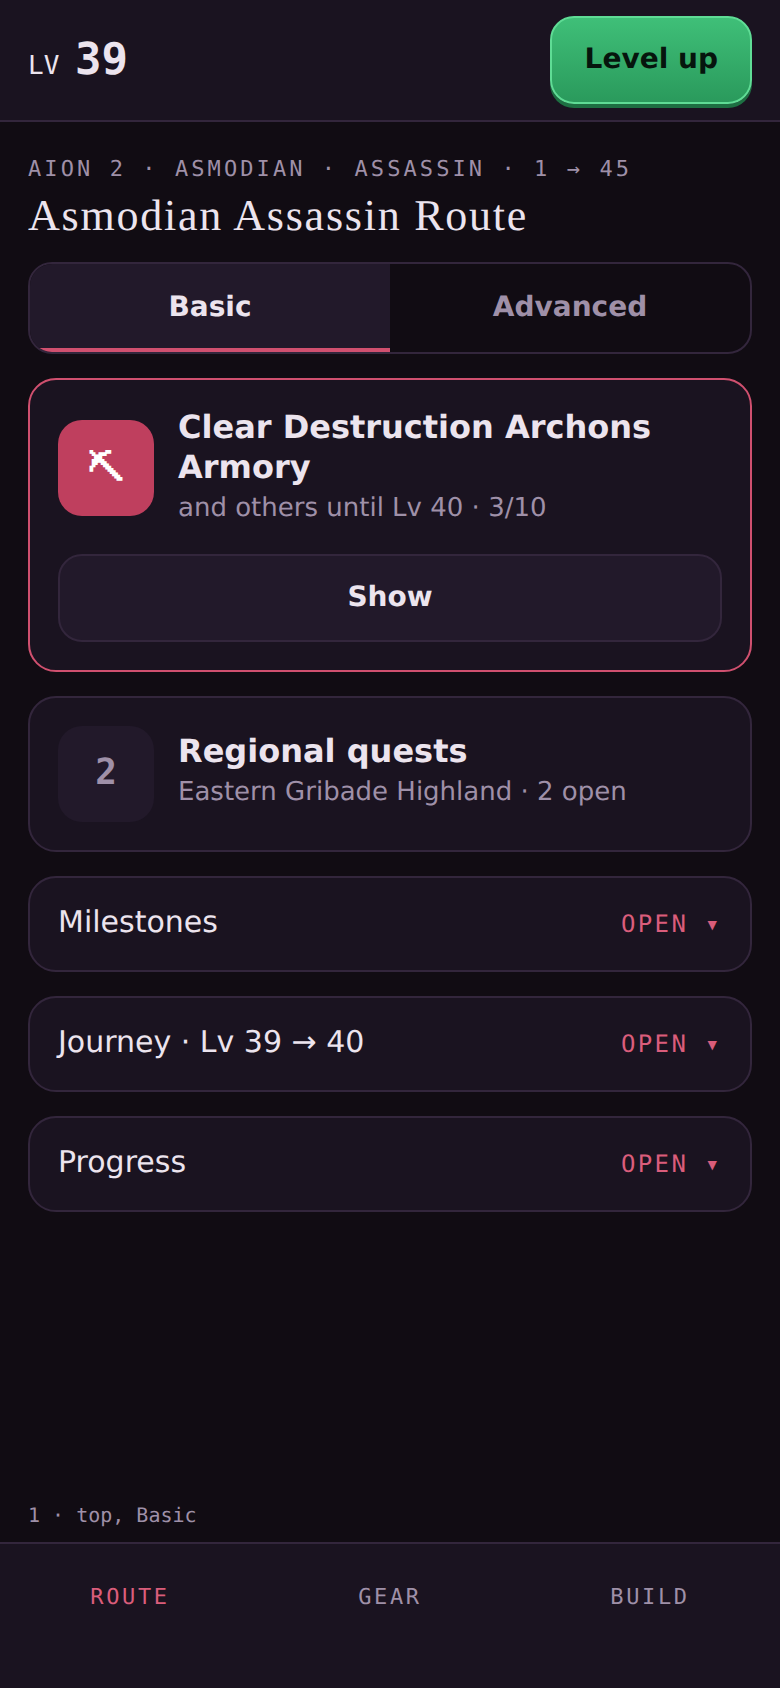
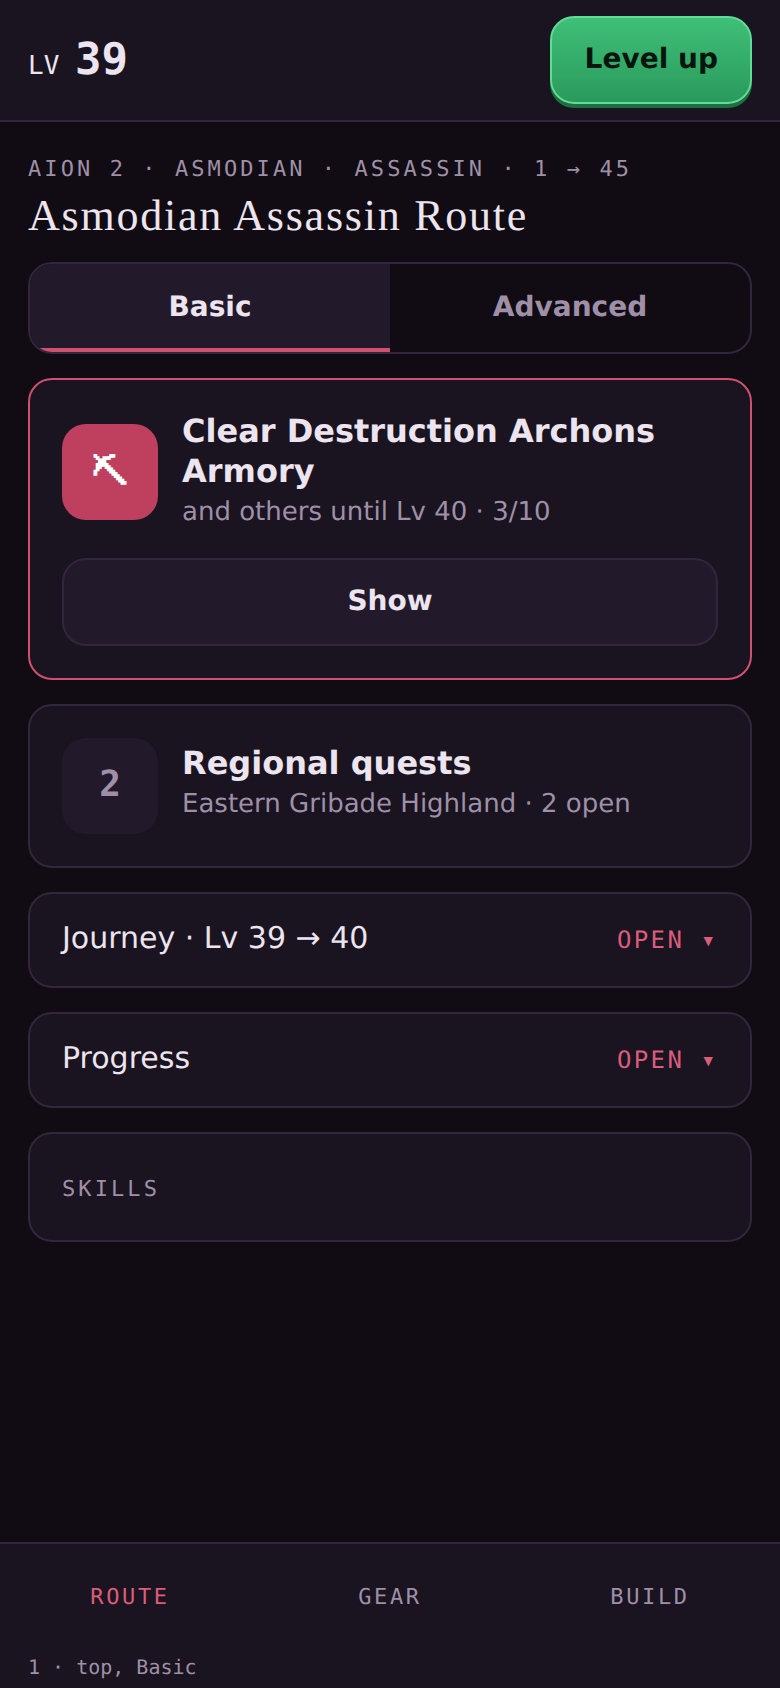
docs: phone layout plan, Milestones stays after gear cards, Route rules Advanced only, app card spacing in mockup

diff --git a/docs/design/mockups/phone-layout.html b/docs/design/mockups/phone-layout.html
@@ -23,7 +23,7 @@ h1 { font: 400 22px var(--display); margin: 0; letter-spacing: .04em; }
 .seg { display: grid; grid-template-columns: 1fr 1fr; border: 1px solid var(--line); border-radius: 12px; overflow: hidden; margin: 10px 0; }
 .seg .btn { border: 0; border-radius: 0; background: none; color: var(--muted); }
 .seg .on { background: var(--panel-2); color: var(--fg); box-shadow: inset 0 -2px var(--accent); }
-.card { background: var(--panel); border: 1px solid var(--line); border-radius: 14px; margin: 12px 14px; padding: 14px; }
+.card { background: var(--panel); border: 1px solid var(--line); border-radius: 12px; margin: 12px 14px; padding: 16px; } /* app.css:63 values; same in every frame */
 .card.first { border-color: var(--accent); }
 .row { display: grid; grid-template-columns: 48px minmax(0,1fr); gap: 12px; align-items: center; }
 .num { width: 48px; height: 48px; border-radius: 12px; background: var(--accent-fill); display: grid; place-items: center; color: #fff; font: 600 18px var(--mono); }
@@ -31,7 +31,7 @@ h1 { font: 400 22px var(--display); margin: 0; letter-spacing: .04em; }
 .card p { margin: 2px 0 0; color: var(--muted); font-size: 13px; }
 .actions { display: flex; gap: 8px; margin-top: 12px; }
 .actions .btn { flex: 1; }
-.fold { display: flex; justify-content: space-between; align-items: center; min-height: 48px; padding: 0 14px; } /* whole summary row is the hit area */
+.fold { display: flex; justify-content: space-between; align-items: center; min-height: 48px; padding: 0 16px; } /* whole summary row is the hit area */
 .more { color: var(--accent-text); font: 500 12px var(--mono); letter-spacing: .1em; text-transform: uppercase; }
 .tabs { position: absolute; left: 0; right: 0; bottom: 0; background: var(--panel); border-top: 1px solid var(--line); display: grid; grid-template-columns: repeat(3, 1fr); padding-bottom: 20px; /* env(safe-area-inset-bottom) */ }
 .tabs span { min-height: 52px; display: grid; place-items: center; font: 500 11px var(--mono); letter-spacing: .12em; text-transform: uppercase; color: var(--muted); }
@@ -40,7 +40,7 @@ h1 { font: 400 22px var(--display); margin: 0; letter-spacing: .04em; }
 .scrim { position: absolute; left: 0; right: 0; bottom: 0; top: 61px; background: #000a; z-index: 2; } /* starts below the bar: Level up stays visible and tappable */
 .grab { width: 40px; height: 5px; border-radius: 3px; background: var(--line); margin: 4px auto 10px; }
 .prio { display: grid; grid-template-columns: 1fr auto; min-height: 48px; align-items: center; border-bottom: 1px solid var(--line); }
-.lbl { position: absolute; bottom: 80px; left: 14px; z-index: 5; font: 10px var(--mono); color: var(--muted); }
+.lbl { position: absolute; bottom: 4px; left: 14px; z-index: 5; font: 10px var(--mono); color: var(--muted); }
 </style></head><body>
 
 <!-- 1. Top of the page: sticky level bar, 44 px mode switch, Next up first -->
@@ -51,21 +51,21 @@ h1 { font: 400 22px var(--display); margin: 0; letter-spacing: .04em; }
   <div class="card first"><div class="row"><span class="num">⛏</span><div><h3>Clear Destruction Archons Armory</h3><p>and others until Lv 40 · 3/10</p></div></div>
     <div class="actions"><span class="btn">Show</span></div></div>
   <div class="card"><div class="row"><span class="num" style="background:var(--panel-2);color:var(--muted)">2</span><div><h3>Regional quests</h3><p>Eastern Gribade Highland · 2 open</p></div></div></div>
-  <div class="card fold" style="margin-top:12px"><span>Milestones</span><span class="more">Open ▾</span></div>
   <div class="card fold"><span>Journey · Lv 39 → 40</span><span class="more">Open ▾</span></div>
   <div class="card fold"><span>Progress</span><span class="more">Open ▾</span></div>
+  <div class="card"><span class="mono">Skills</span></div>
   <div class="tabs"><span class="on">Route</span><span>Gear</span><span>Build</span></div></div>
 
 <!-- 2. Further down: gear cards as uniform folds, 44+ px rows -->
 <div class="ph" id="p2"><div class="lbl">2 · lower, Basic</div>
   <div class="bar"><span class="lv">LV <b>39</b></span><button class="btn lvup">Level up</button></div>
-  <div class="card" style="margin:8px 14px;padding:10px 14px"><span class="mono">Skills</span><div class="row" style="margin-top:6px"><span class="num">Q</span><div><h3>Skill name → N</h3><p>Spend 1 point</p></div></div><div class="actions" style="margin-top:8px"><span class="btn primary">Mark spent</span></div></div>
-  <div class="card" style="margin:8px 14px;padding:10px 14px"><span class="mono">Daevanion</span><div class="row" style="margin-top:6px"><span class="num">D</span><div><h3>Next node · n DP</h3><p>Have n</p></div></div><div class="actions" style="margin-top:8px"><span class="btn">−</span><span class="btn" style="flex:2">n</span><span class="btn">+</span></div></div>
-  <div class="card" style="margin:8px 14px;padding:10px 14px"><span class="mono">Stigmas</span><div class="row" style="margin-top:6px"><span class="num">S</span><div><h3>Equip stigma name</h3><p>Shards n</p></div></div></div>
-  <div class="card fold" style="margin:8px 14px"><span>Dungeons &amp; Strongholds</span><span class="more">Open ▾</span></div>
-  <div class="card fold" style="margin:8px 14px"><span>Route rules</span><span class="more">Open ▾</span></div>
-  <div class="card fold" style="margin:8px 14px"><span>Confidence</span><span class="more">Open ▾</span></div>
-  <div class="card fold" style="margin:8px 14px"><span>Sources</span><span class="more">Open ▾</span></div>
+  <div class="card"><span class="mono">Skills</span><div class="row"><span class="num">Q</span><div><h3>Skill name → N</h3><p>Spend 1 point</p></div></div><div class="actions"><span class="btn primary">Mark spent</span></div></div>
+  <div class="card"><span class="mono">Daevanion</span><div class="row"><span class="num">D</span><div><h3>Next node · n DP</h3><p>Have n</p></div></div><div class="actions"><span class="btn">−</span><span class="btn" style="flex:2">n</span><span class="btn">+</span></div></div>
+  <div class="card"><span class="mono">Stigmas</span><div class="row"><span class="num">S</span><div><h3>Equip stigma name</h3><p>Shards n</p></div></div></div>
+  <div class="card"><span class="mono">Milestones</span><div class="row"><span class="num" style="background:var(--panel-2);color:var(--muted)">☐</span><div><h3>Up-next milestone</h3><p>Lv 39 · 2 open</p></div></div></div>
+  <div class="card fold"><span>Dungeons &amp; Strongholds</span><span class="more">Open ▾</span></div>
+  <div class="card fold"><span>Confidence</span><span class="more">Open ▾</span></div>
+  <div class="card fold"><span>Sources</span><span class="more">Open ▾</span></div>
   <div class="tabs"><span>Route</span><span class="on">Gear</span><span>Build</span></div></div>
 
 <!-- 3. Build as a bottom sheet from the tab bar -->
